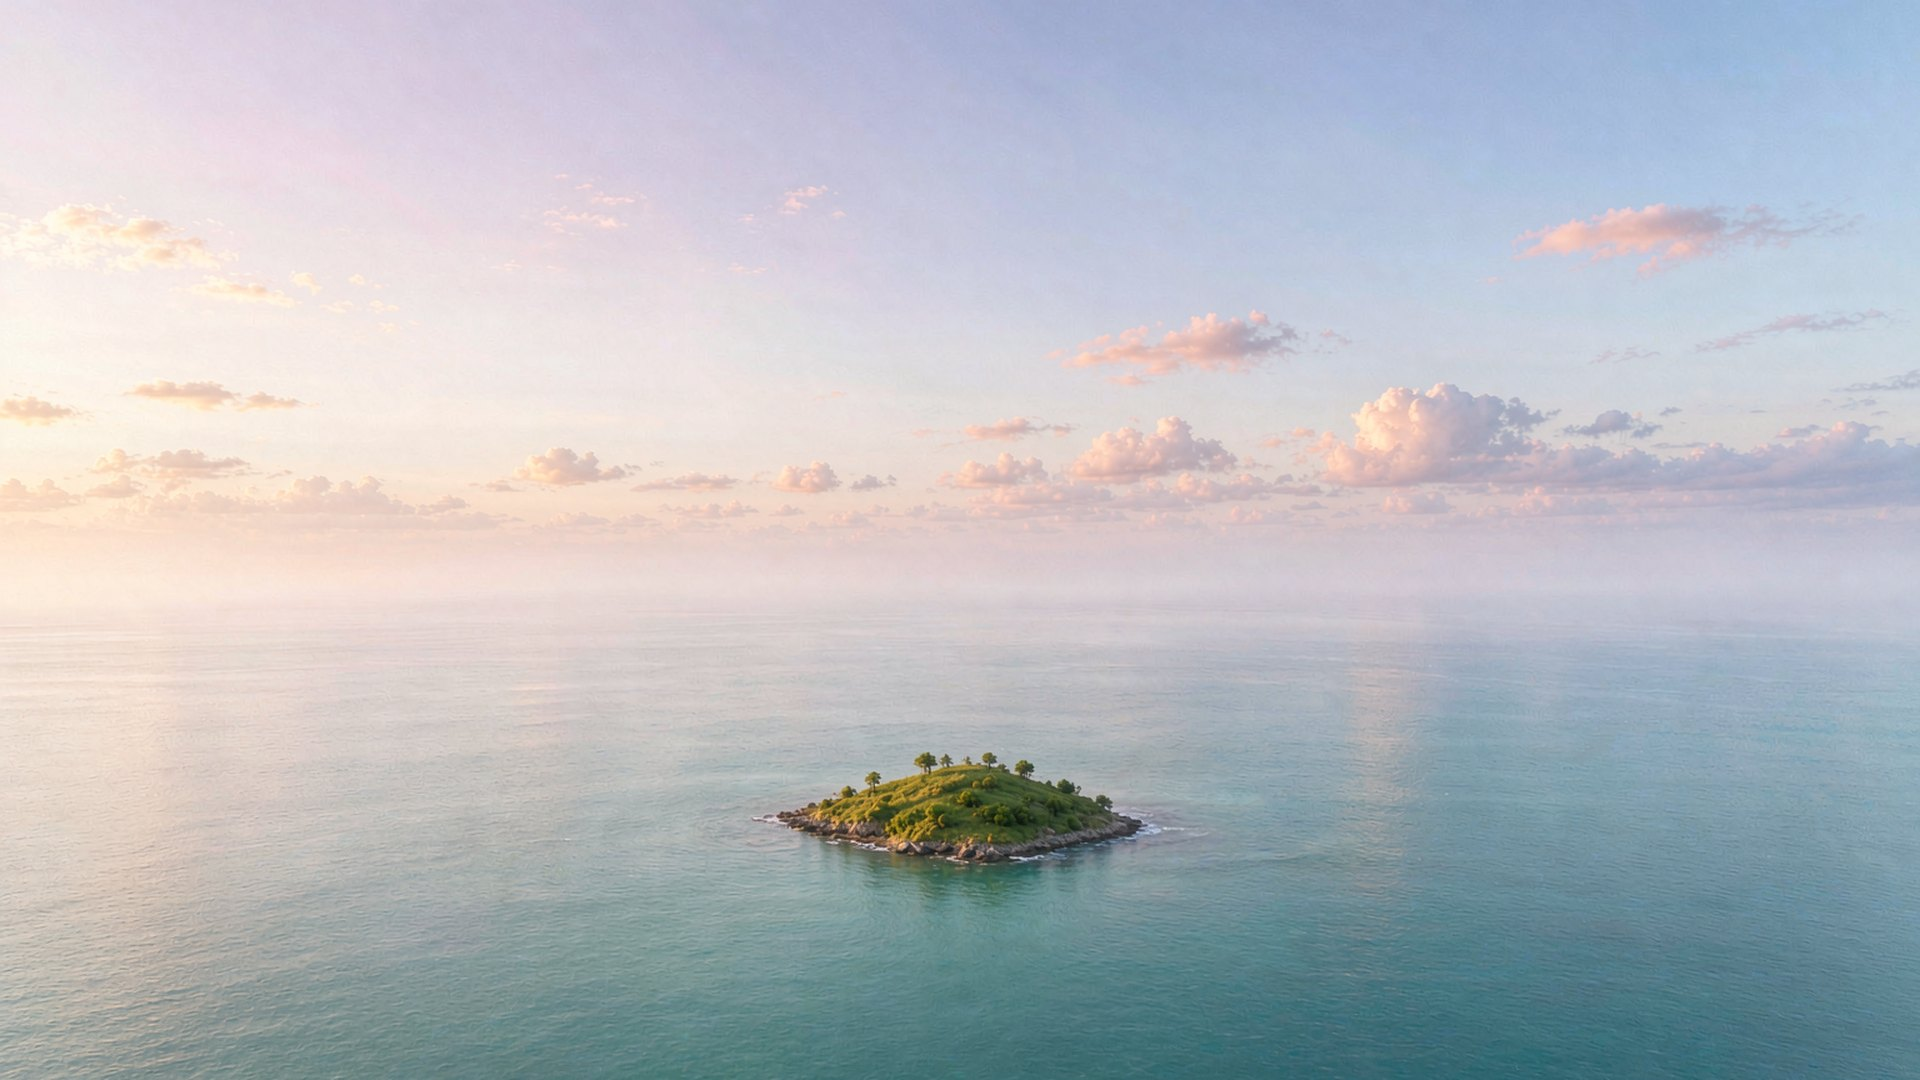
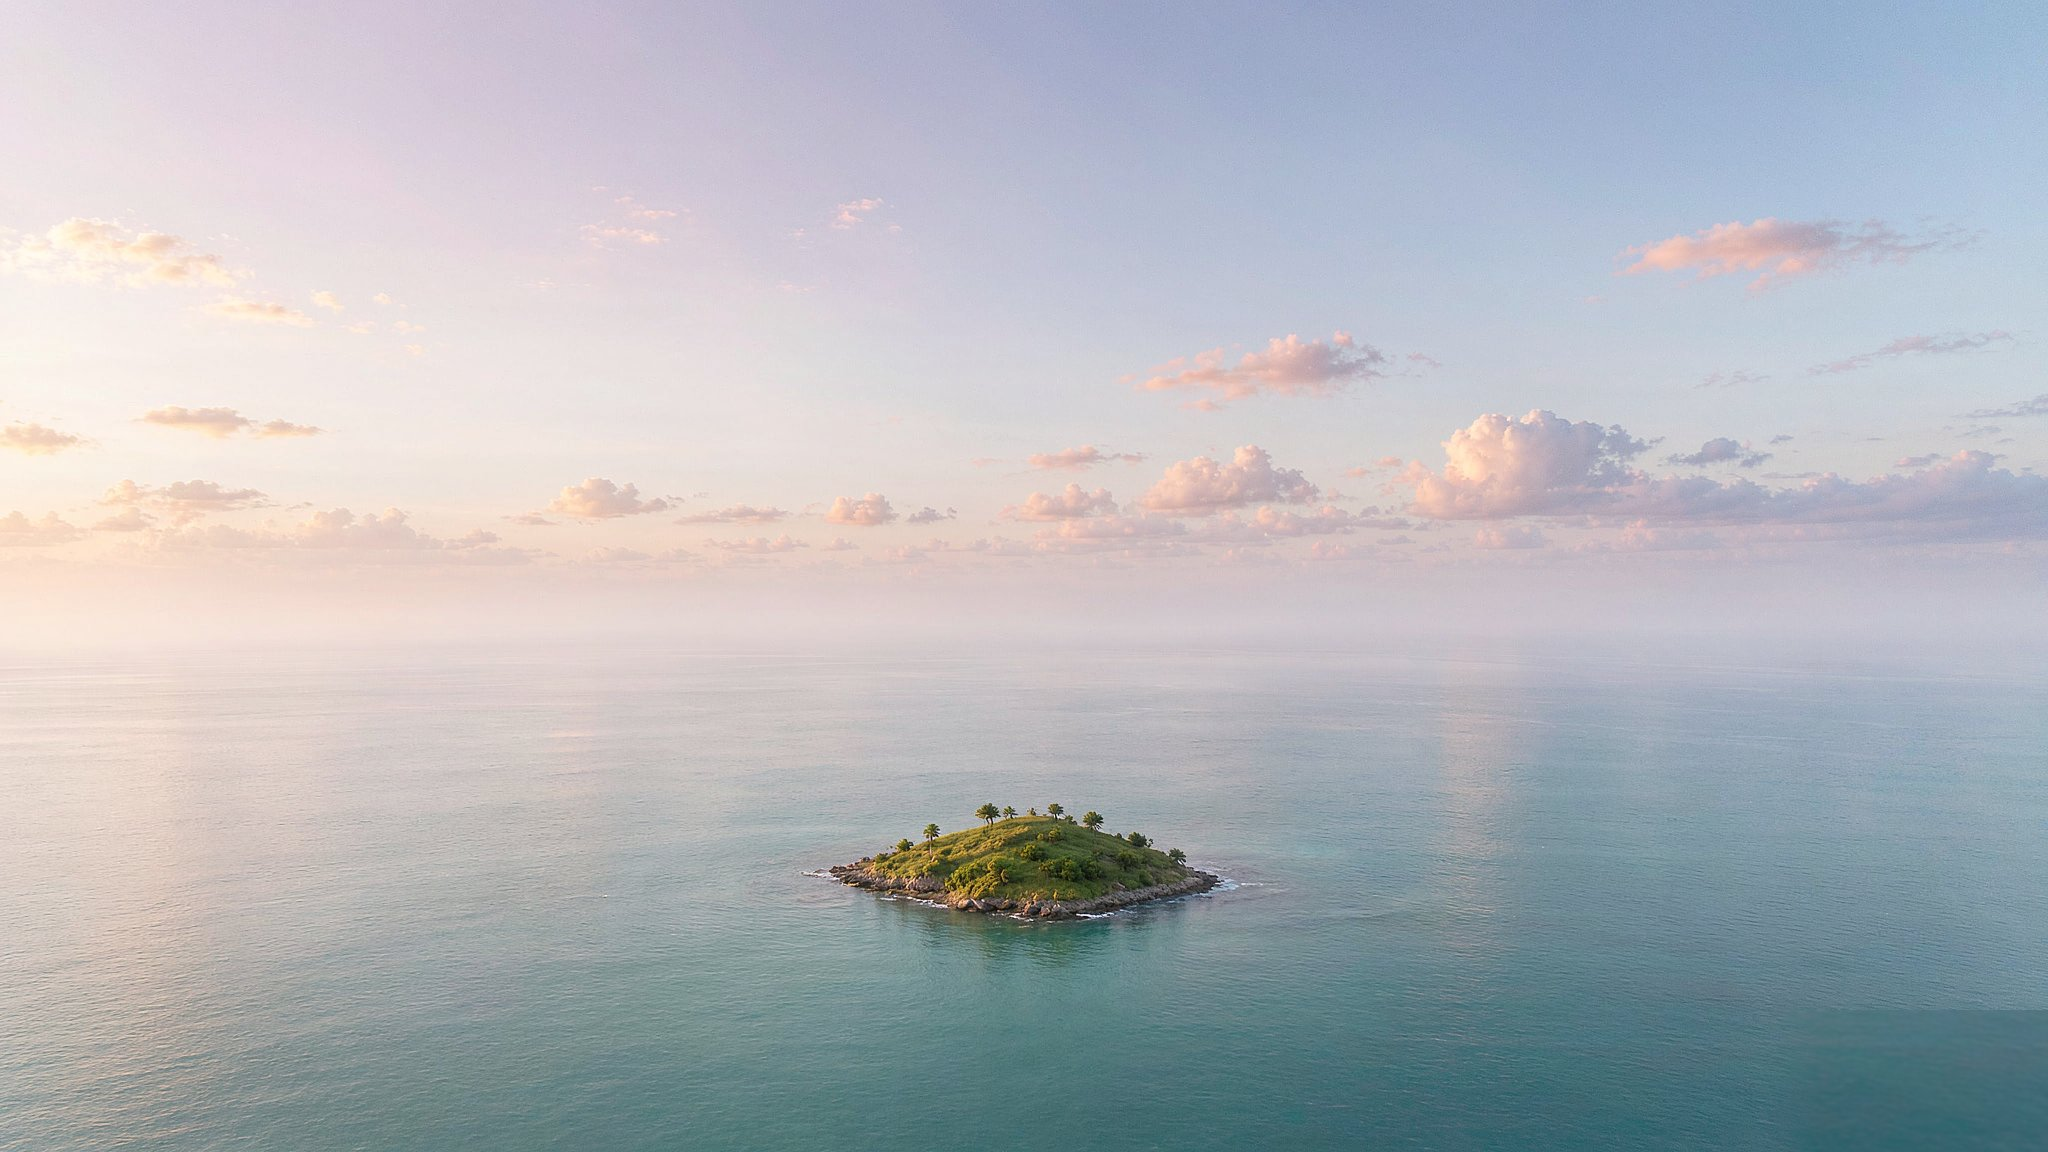
Native AI-rendered default wallpaper (2048x1152, watermark cloned out) for both packages; wallpaper settings panel regrouped by source with section labels

Changed region(s): [[0.4062, 0.7028, 0.5312, 0.7944], [0.9375, 0.8556, 1.0, 1.0]]

diff --git a/app/src/main/java/com/veil/launcher/HomeSettingsActivity.java b/app/src/main/java/com/veil/launcher/HomeSettingsActivity.java
@@ -347,8 +347,22 @@ public class HomeSettingsActivity extends Activity {
         });
     }
 
+    /**
+     * The wallpaper panel, grouped by source and ordered inside each group: pick → tune →
+     * fill. Three picture sources live here (aerial, Bing, the 360 gallery) and their rows used
+     * to be interleaved, which read as noise on the TV (the owner's report).
+     */
     private void buildWallpaperRows() {
         row(getString(R.string.panel_wallpaper), null, v -> showWallpaperDialog());
+        row(getString(R.string.scan_upload), null, v -> showQrUpload());
+
+        section(getString(R.string.sec_aerial));
+        row(getString(R.string.wallpaper_aerial), aerialValue = new TextView(this), v -> showAerialIntervalDialog());
+        row(getString(R.string.aerial_source), aerialSourceValue = new TextView(this), v -> showAerialSourceDialog());
+        row(getString(R.string.aerial_res), aerialResValue = new TextView(this), v -> showAerialResDialog());
+        row(getString(R.string.aerial_expand), aerialExpandValue = new TextView(this), v -> showAerialExpandDialog());
+
+        section(getString(R.string.sec_bing));
         row(getString(R.string.wallpaper_bing), bingValue = new TextView(this), v -> {
             boolean on = prefs.isBingWallpaperOn();
             prefs.setBingWallpaperOn(!on);
@@ -356,15 +370,28 @@ public class HomeSettingsActivity extends Activity {
             refreshValues();
             Toast.makeText(this, on ? R.string.wallpaper_bing_off : R.string.wallpaper_bing_on, Toast.LENGTH_SHORT).show();
         });
-        row(getString(R.string.wallpaper_aerial), aerialValue = new TextView(this), v -> showAerialIntervalDialog());
-        row(getString(R.string.aerial_source), aerialSourceValue = new TextView(this), v -> showAerialSourceDialog());
-        row(getString(R.string.aerial_res), aerialResValue = new TextView(this), v -> showAerialResDialog());
-        row(getString(R.string.scan_upload), null, v -> showQrUpload());
-        row(getString(R.string.aerial_expand), aerialExpandValue = new TextView(this), v -> showAerialExpandDialog());
         row(getString(R.string.bing_rotate), bingRotateValue = new TextView(this), v -> showBingIntervalDialog());
+
+        section(getString(R.string.sec_w360));
         row(getString(R.string.w360_gallery), w360CatValue = new TextView(this), v -> showW360CatDialog());
         row(getString(R.string.w360_expand), w360ExpandValue = new TextView(this), v -> showW360ExpandDialog());
         row(getString(R.string.w360_rotate), w360RotateValue = new TextView(this), v -> showW360IntervalDialog());
+    }
+
+    /**
+     * A group label between rows. Not focusable on purpose: the remote skips straight over it
+     * to the next real row instead of stopping on a heading.
+     */
+    private void section(String label) {
+        float d = getResources().getDisplayMetrics().density;
+        TextView t = new TextView(this);
+        t.setText(label);
+        t.setTextSize(13);
+        t.setTextColor(0xFF8E8E93);
+        t.setPadding((int) (22 * d), (int) (14 * d), 0, (int) (4 * d));
+        t.setFocusable(false);
+        t.setFocusableInTouchMode(false);
+        list.addView(t);
     }
 
     private void buildScreensaverRows() {
